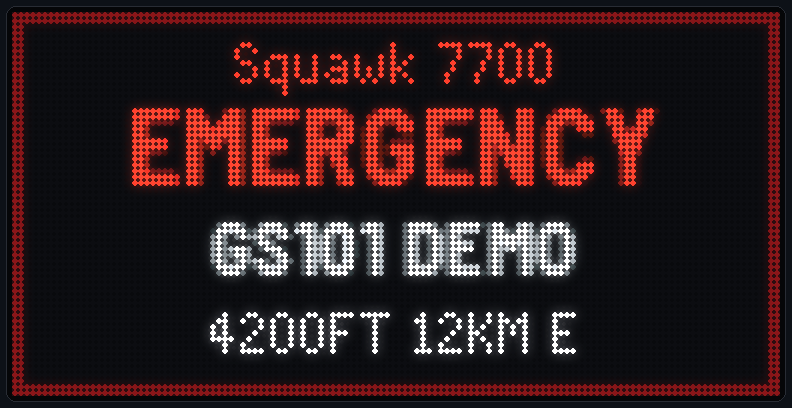
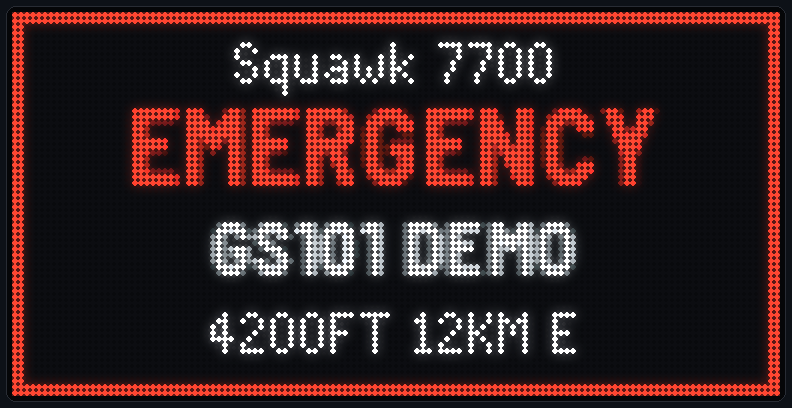
9.0.1: screenshots and changelog date

Changed region(s): [[0.0, 0.0294, 1.0, 0.9706], [0.2727, 0.0882, 0.5152, 0.2353], [0.5455, 0.0882, 0.697, 0.2059]]

diff --git a/CHANGELOG.md b/CHANGELOG.md
@@ -7,7 +7,7 @@ web page (`firmware.bin`) keep your settings. Release files are on the
 There is no 3.0: the features planned for it (living sky, holding stacks,
 phone alerts) were finished alongside 4.0's and shipped together as 4.0.0.
 
-## 9.0.1 (in progress)
+## 9.0.1 (25 Oct 2026)
 
 **Fixes**
 - Fewer secure-connection reopens: an arrival whose origin is known but not
